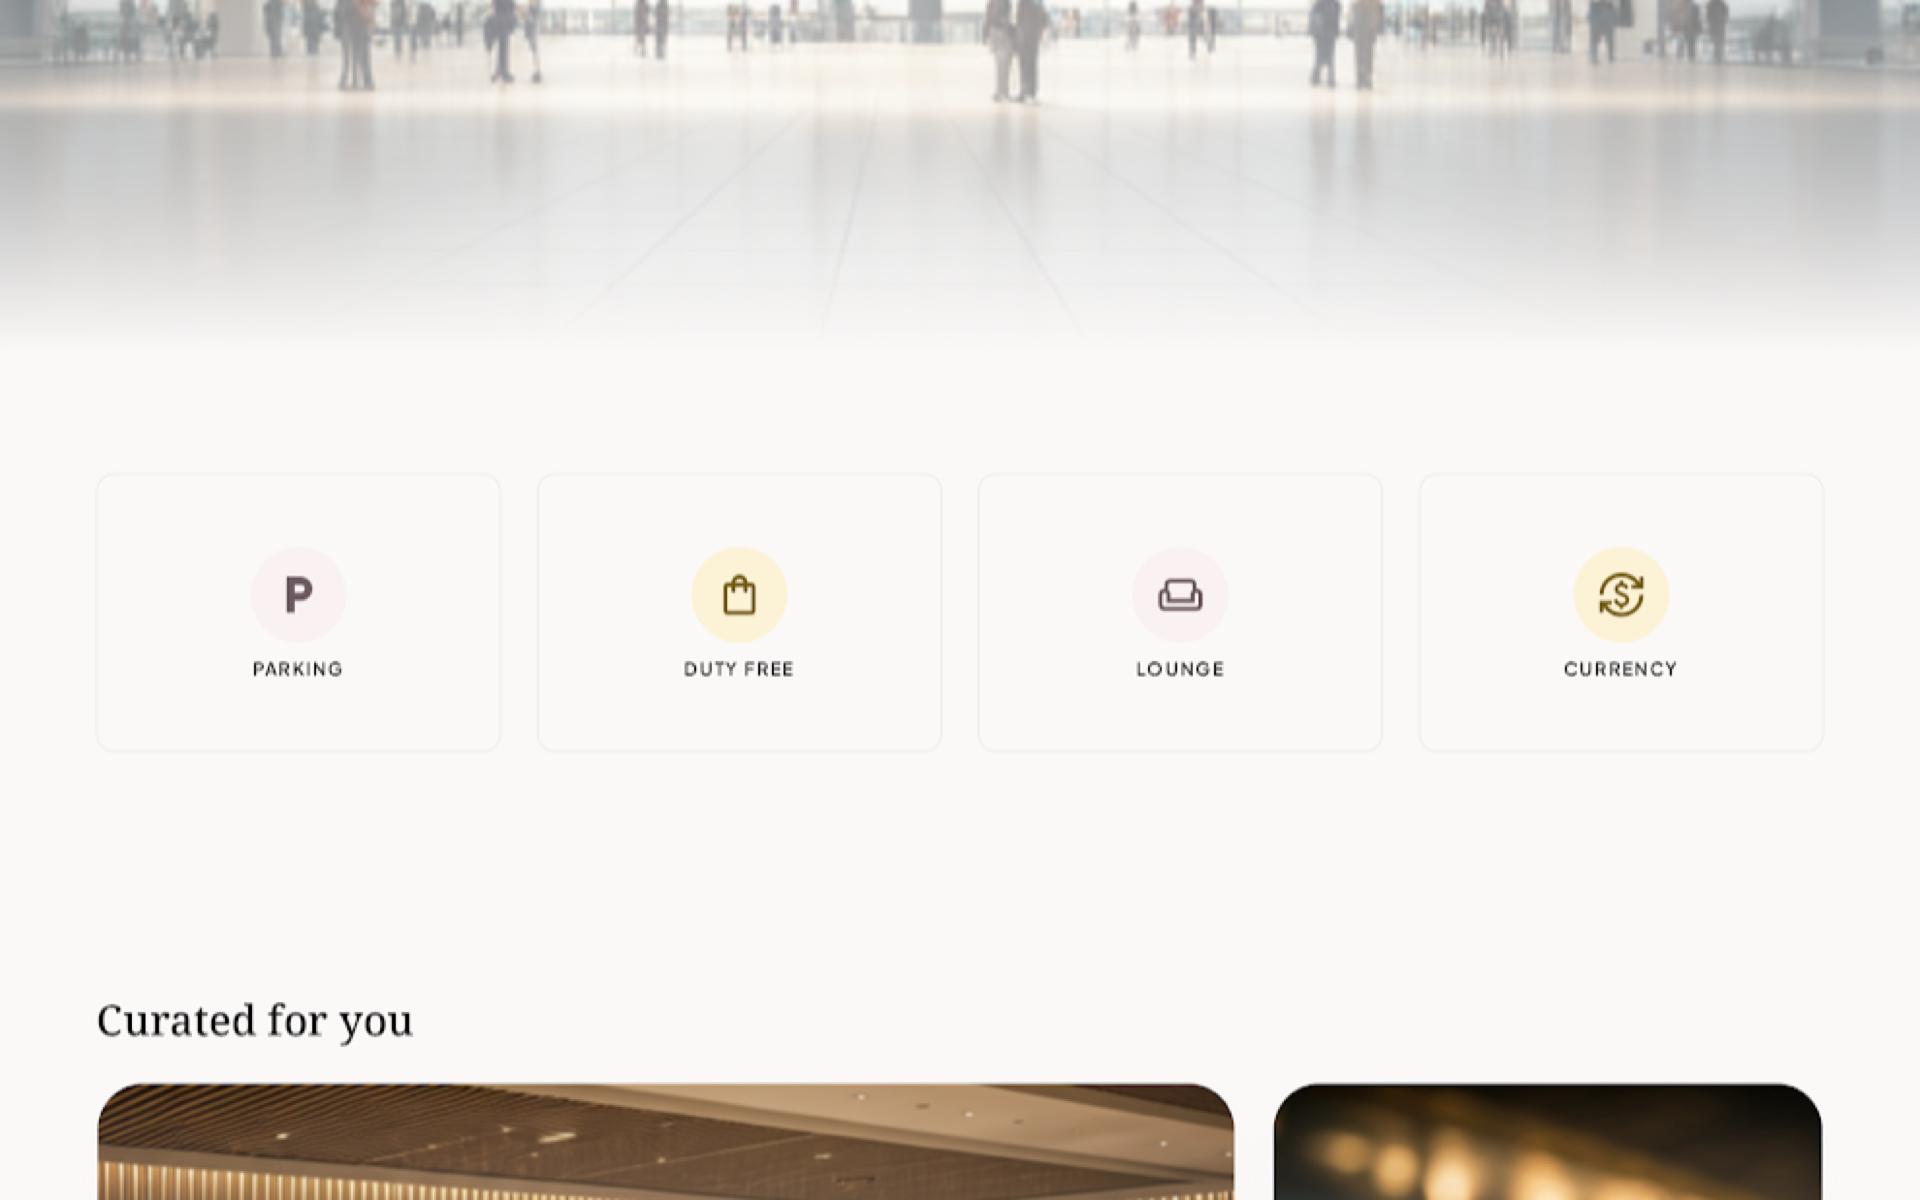
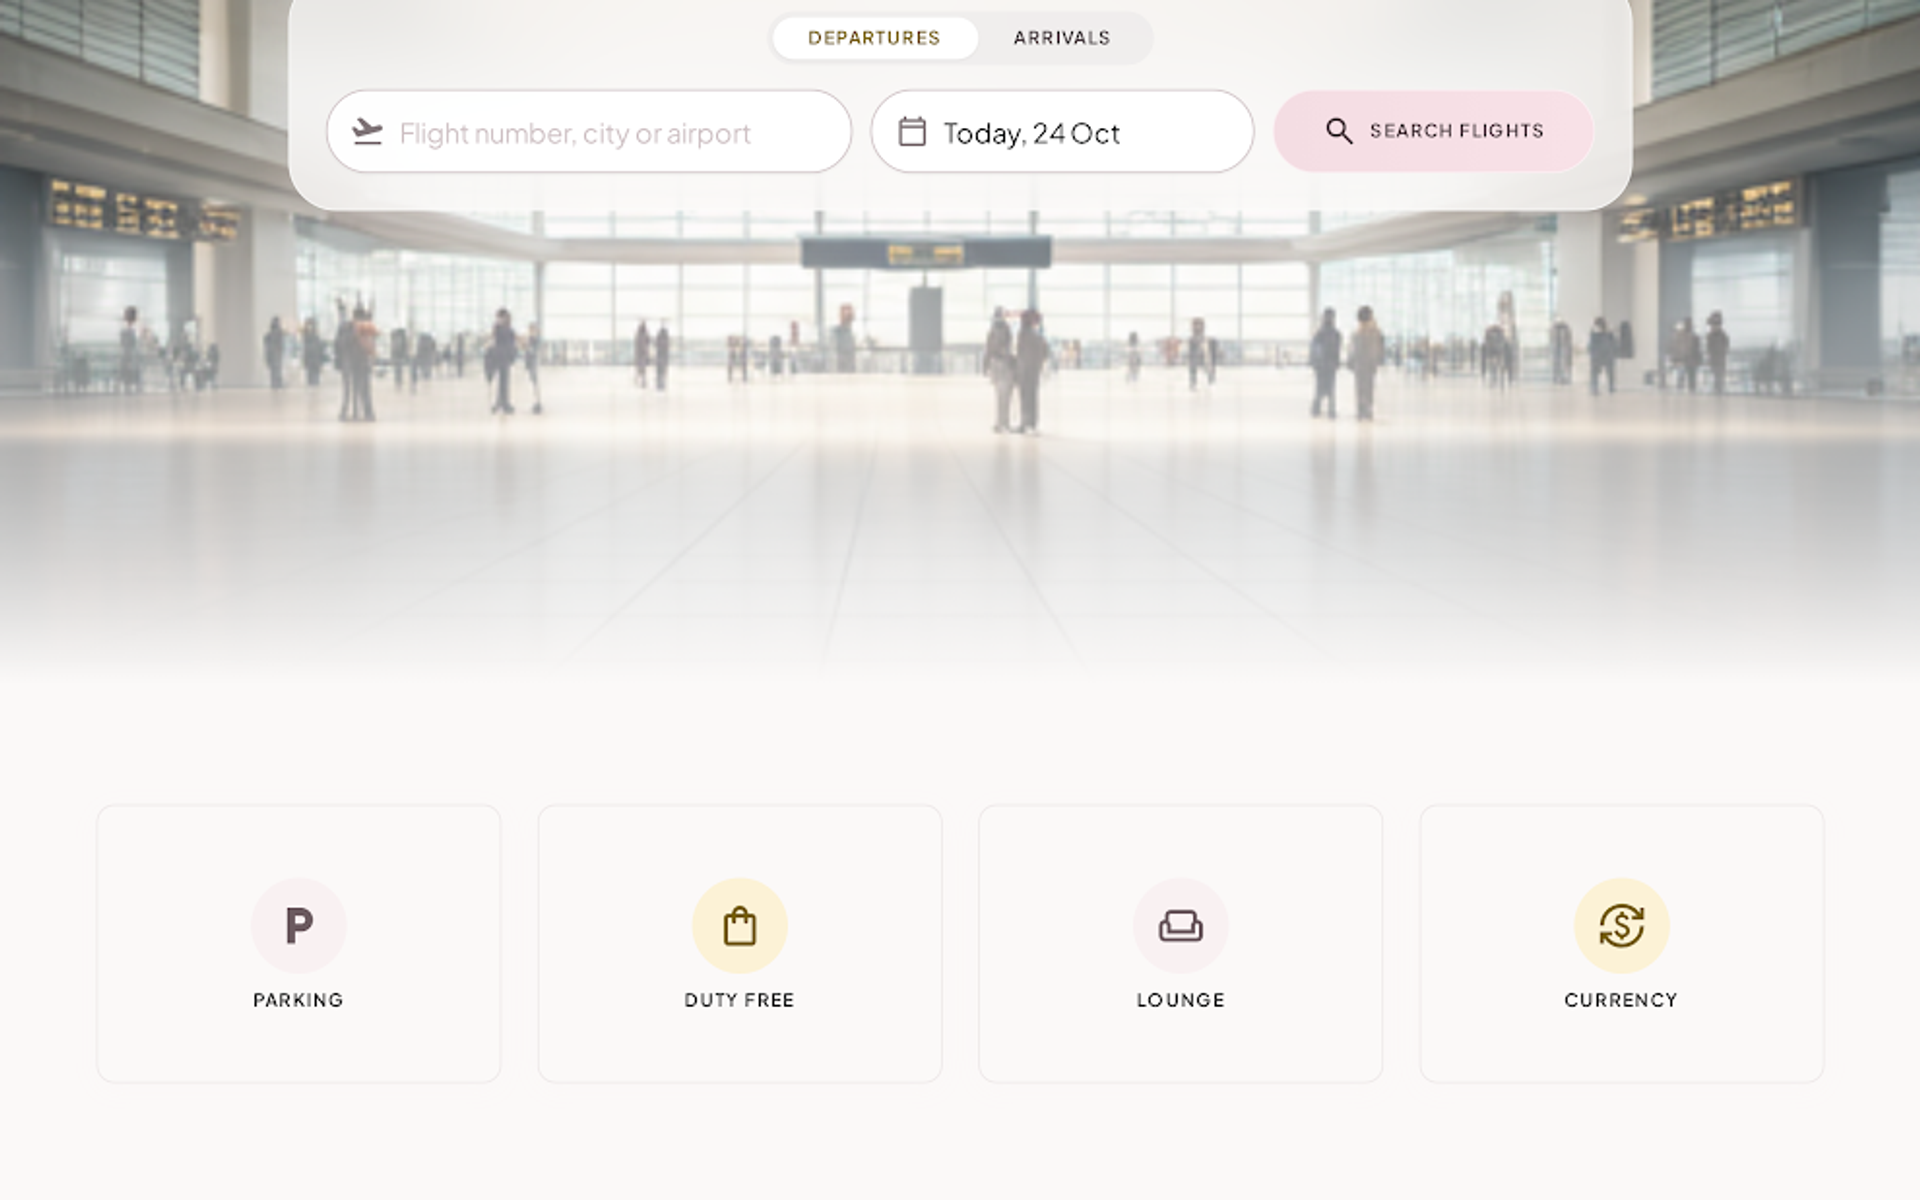
fix: Recrop project previews so UI fills card frames edge-to-edge.
Re-capture Community Hero at mobile width, crop AirHelp from design asset, and use a shared fill component with min-width/min-height cover sizing.

diff --git a/my-portfolio/src/data/portfolio.js b/my-portfolio/src/data/portfolio.js
@@ -145,7 +145,8 @@ export const projects = [
     subtitle: "Google Solution Challenge 2026 Global Top 106 · Neural Foundry",
     description:
       "A multi-modal logistics platform (road, rail, air, water) built for Google Solution Challenge 2026 — Global Top 106. Co-led as Technical Co-Lead & UI/UX Head; owned the railway pipeline with sub-second read paths, Gradient Boosting delay ML, Pareto ranking, and Gemini explainability.",
-    image: "/logiflow-preview.png?v=2",
+    image: "/logiflow-preview.png?v=3",
+    imagePosition: "center top",
     tech: [
       "Next.js",
       "React",
@@ -196,7 +197,7 @@ export const projects = [
     subtitle: "AI airport companion — PowerMind Hackathon 2026",
     description:
       "An AI-powered airport companion built at PowerMind Hackathon 2026 — conversational backend with intent orchestration, RAG semantic search, A* indoor navigation on custom terminal graphs, WebSocket real-time alerts, and offline voice (Whisper STT + Piper TTS).",
-    image: "/airhelp-preview.png?v=2",
+    image: "/airhelp-preview.png?v=3",
     tech: [
       "FastAPI",
       "React",
@@ -237,7 +238,8 @@ export const projects = [
     subtitle: "CIVICPULSE AI — Vibe2Ship 2026 · hyperlocal civic reporting",
     description:
       "A hyperlocal civic issue reporting PWA for Indian urban citizens — photograph potholes, water leaks, and streetlights; Gemini classifies in seconds; six agents route, verify, and track SLA deadlines with public impact dashboards.",
-    image: "/community-hero-preview.png?v=2",
+    image: "/community-hero-preview.png?v=3",
+    imagePosition: "center top",
     tech: [
       "React",
       "TypeScript",
@@ -277,7 +279,7 @@ export const projects = [
     subtitle: "Internship Scout & OA Forge — resume-optimiser monorepo",
     description:
       "A production automation stack aggregating internship listings across 965+ companies and 14K+ evidence-tracked OA questions — with scheduled CI pipelines, Supabase-backed data, and GitHub Actions orchestration.",
-    image: "/portfolio-preview.png?v=2",
+    image: "/portfolio-preview.png?v=3",
     tech: [
       "Python",
       "GitHub Actions",
@@ -316,7 +318,7 @@ export const projects = [
     subtitle: "Web Wonders 2025 · Cultural-tech marketplace",
     description:
       "A cultural hub with VR experiences, AI storytelling, and a marketplace for traditional Indian arts. Forty-plus pages and a complete artisan commerce flow.",
-    image: "/rangriti-preview.png?v=2",
+    image: "/rangriti-preview.png?v=3",
     tech: ["Node.js", "Express", "MongoDB", "Cloudinary", "Hugging Face"],
     github: "https://github.com/Ojas-Srivastava05/RangRiti",
     live: "https://rangriti.onrender.com",
@@ -346,7 +348,7 @@ export const projects = [
     subtitle: "AI text summariser",
     description:
       "An AI-powered platform for summarising user text with NLP-driven concise outputs and local export support.",
-    image: "/inkd-preview.png?v=2",
+    image: "/inkd-preview.png?v=3",
     tech: ["Node.js", "Express", "Cohere API", "NLP"],
     github: "https://github.com/Ojas-Srivastava05/inkd-diary",
     live: "https://inkd-diary.onrender.com",
@@ -375,7 +377,7 @@ export const projects = [
     subtitle: "Campus community platform",
     description:
       "A club discovery and event-management platform with membership flows, role-based admin controls, JWT authentication, and Cloudinary media handling.",
-    image: "/clubify-preview.png?v=2",
+    image: "/clubify-preview.png?v=3",
     tech: ["React", "Node.js", "Express", "MongoDB", "JWT", "Cloudinary"],
     github: "https://github.com/Ojas-Srivastava05/WPP-Project.git",
     live: "https://github.com/Ojas-Srivastava05/WPP-Project.git",
@@ -400,7 +402,7 @@ export const projects = [
     subtitle: "Temperature prediction system",
     description:
       "A machine learning project with custom gradient descent, a Flask API, weather data ingestion, and a React interface for next-day forecasts.",
-    image: "/climatracker-preview.png?v=2",
+    image: "/climatracker-preview.png?v=3",
     tech: ["Python", "Flask", "Linear Regression", "React"],
     github: "https://github.com/Ojas-Srivastava05/TempPredictor",
     live: "https://climatrack-2o3u.onrender.com",
@@ -425,7 +427,7 @@ export const projects = [
     subtitle: "This site",
     description:
       "A handcrafted, motion-rich personal site built to showcase work, ratings, and engineering principles with intent in every interaction.",
-    image: "/portfolio-preview.png?v=2",
+    image: "/portfolio-preview.png?v=3",
     tech: ["React", "Vite", "Tailwind", "Framer Motion"],
     github: "https://github.com/Ojas-Srivastava05/Portfolio-Ojas.git",
     live: "https://ojas-srivastava.vercel.app/",

diff --git a/my-portfolio/src/sections/Projects.jsx b/my-portfolio/src/sections/Projects.jsx
@@ -1,5 +1,6 @@
 import { useEffect, useState } from "react";
 import { AnimatePresence, motion as Motion } from "framer-motion";
+import ProjectPreview from "../components/ProjectPreview";
 import { projects } from "../data/portfolio";
 
 const categories = ["All", "AI Systems", "Full Stack", "AI Tools", "Product", "Machine Learning", "Frontend"];
@@ -79,11 +80,11 @@ export default function Projects() {
 
             <div className="grid items-stretch gap-0 lg:grid-cols-[1.1fr_0.9fr]">
               {/* Visual */}
-              <div className="relative min-h-[280px] overflow-hidden border-b border-white/[0.06] bg-ink-100 lg:min-h-[480px] lg:border-b-0 lg:border-r">
-                <img
+              <div className="relative min-h-[280px] overflow-hidden border-b border-white/[0.06] bg-ink-100 lg:h-full lg:min-h-[480px] lg:border-b-0 lg:border-r">
+                <ProjectPreview
                   src={flagship.image}
                   alt={`${flagship.title} preview`}
-                  className="absolute inset-0 h-full w-full object-cover object-top"
+                  position="center top"
                   loading="eager"
                 />
                 <div className="absolute inset-0 bg-gradient-to-t from-ink/80 via-transparent to-transparent pointer-events-none" />
@@ -234,11 +235,12 @@ export default function Projects() {
                 className="block"
               >
                 <div className="relative aspect-[16/10] overflow-hidden border-b border-white/[0.06] bg-ink-100">
-                  <img
+                  <ProjectPreview
                     src={p.image}
                     alt={`${p.title} preview`}
-                    className="absolute inset-0 h-full w-full object-cover object-center opacity-90 transition duration-700 group-hover:scale-[1.03] group-hover:opacity-100"
+                    position={p.imagePosition || "center"}
                     loading={i > 1 ? "lazy" : "eager"}
+                    imgClassName="transition duration-700 group-hover:scale-[1.03]"
                   />
                   <div className="absolute inset-0 bg-gradient-to-t from-ink/95 via-ink/20 to-transparent" />
                   <div className="absolute left-3 top-3 flex items-center gap-2">
@@ -370,10 +372,10 @@ function ProjectBriefModal({ project, onClose }) {
           >
             <div className="grid lg:grid-cols-[0.9fr_1.1fr]">
               <div className="relative min-h-[320px] overflow-hidden border-b border-white/[0.07] bg-ink-100 lg:min-h-full lg:border-b-0 lg:border-r">
-                <img
+                <ProjectPreview
                   src={project.image}
                   alt={`${project.title} preview`}
-                  className="absolute inset-0 h-full w-full object-cover object-center opacity-90"
+                  position={project.imagePosition || "center"}
                 />
                 <div className="absolute inset-0 bg-gradient-to-t from-ink via-ink/55 to-transparent" />
                 <div className="absolute inset-x-0 bottom-0 p-6">

diff --git a/my-portfolio/src/components/ProjectPreview.jsx b/my-portfolio/src/components/ProjectPreview.jsx
@@ -1,0 +1,22 @@
+export default function ProjectPreview({
+  src,
+  alt,
+  className = "",
+  imgClassName = "",
+  position = "center",
+  loading = "lazy",
+}) {
+  return (
+    <div className={`absolute inset-0 overflow-hidden ${className}`}>
+      <img
+        src={src}
+        alt={alt}
+        loading={loading}
+        decoding="async"
+        draggable={false}
+        className={`block h-full w-full min-h-full min-w-full object-cover ${imgClassName}`}
+        style={{ objectPosition: position }}
+      />
+    </div>
+  );
+}
